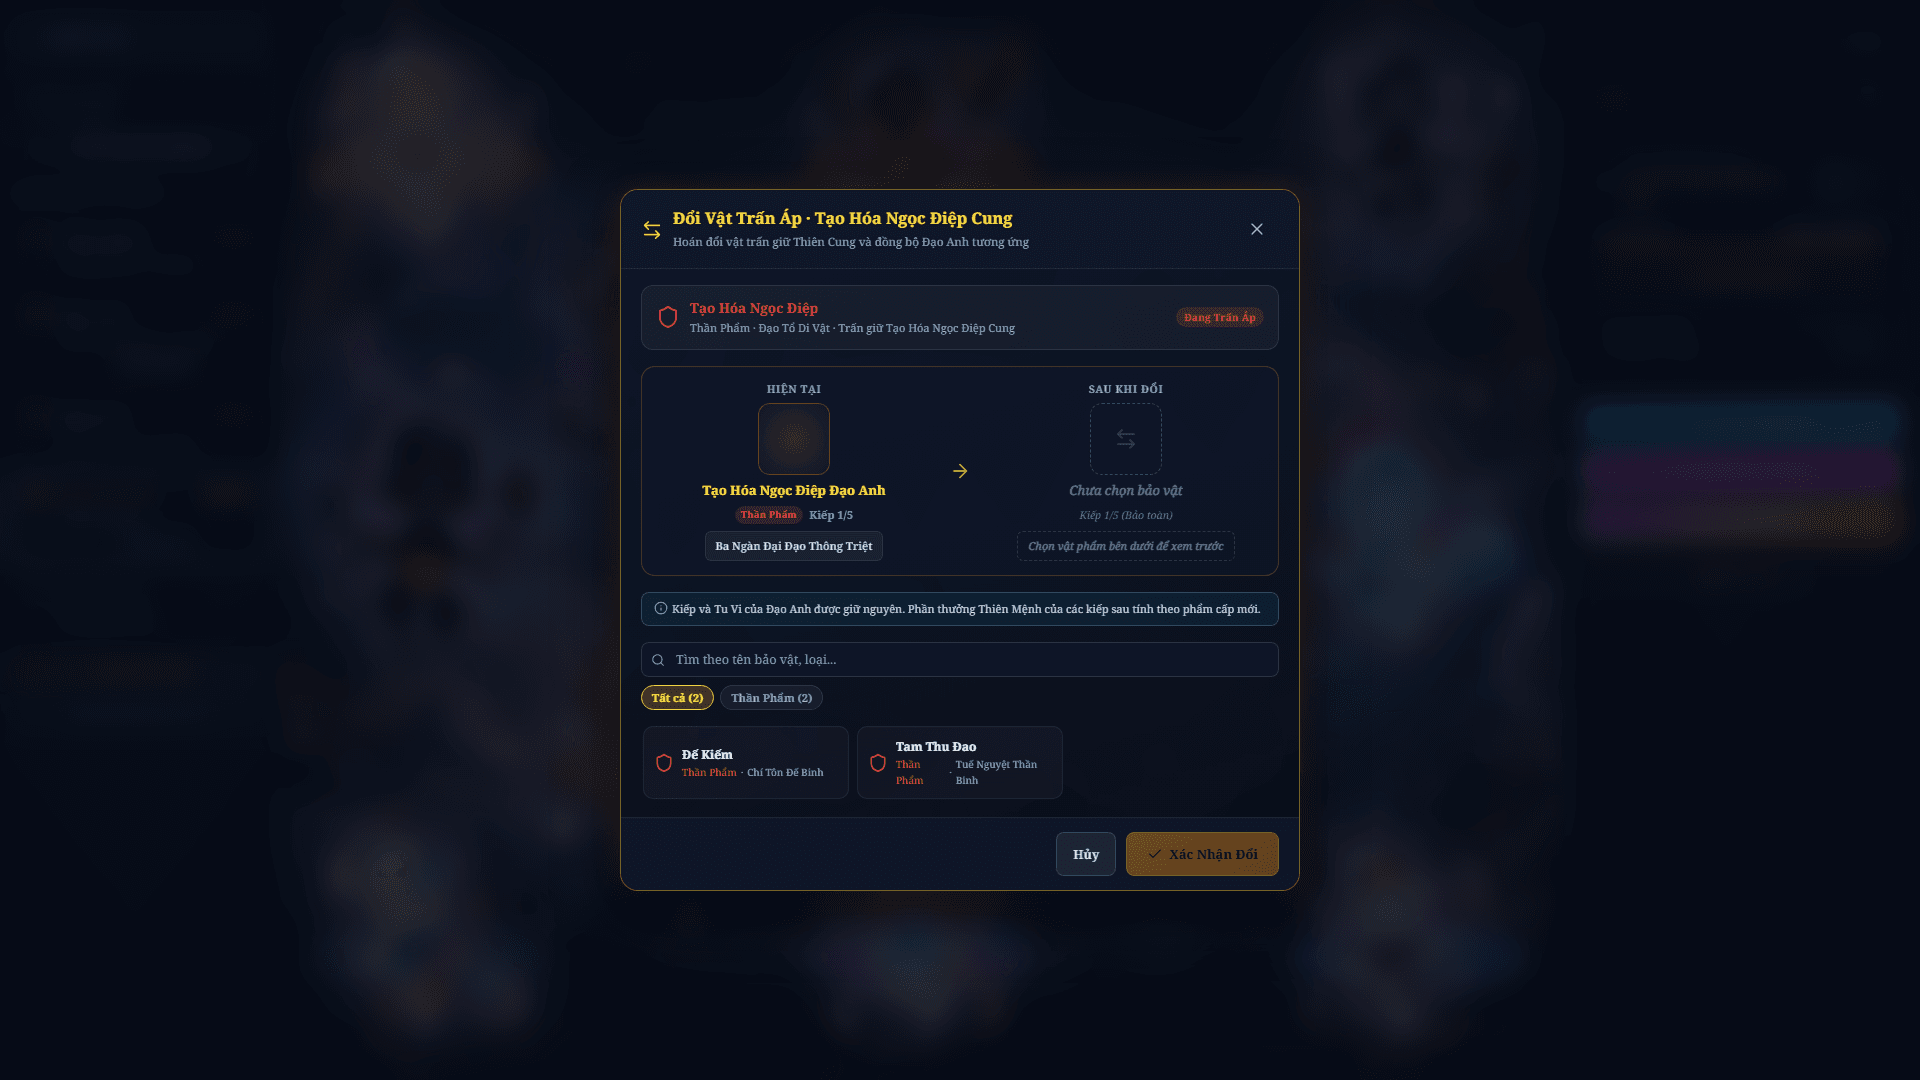
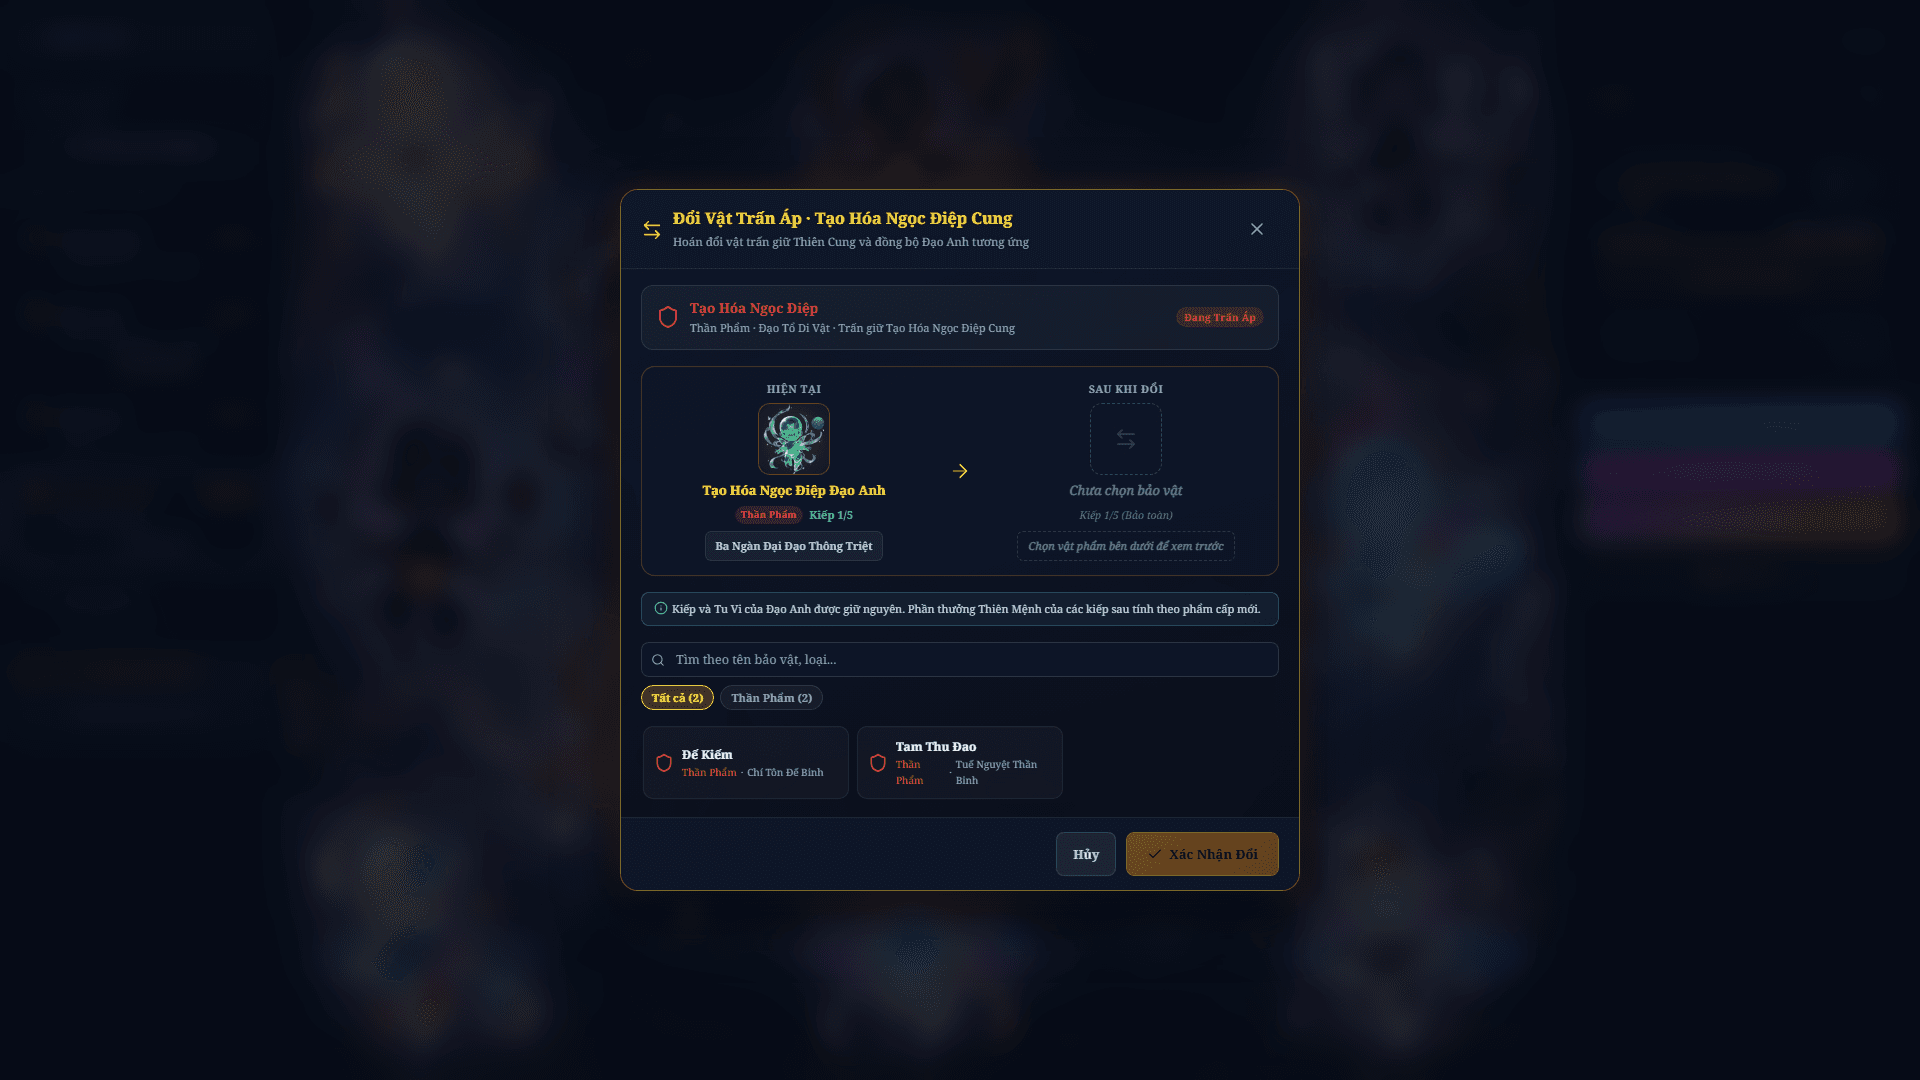
test(dao-anh): verify body mass uniformity and refresh acceptance screenshots

diff --git a/scripts/test-daoanh-auto-transform.js b/scripts/test-daoanh-auto-transform.js
@@ -122,12 +122,16 @@ for (const da of DAO_ANH_LIST) {
 }
 console.log(`✓ PASS: Toàn bộ ${containTested} lượt (42 Đạo Anh x 5 Kiếp) ở fit: "contain" đều có bbox nằm trong [0,1]x[0,1] (sai số <= 0.02).`);
 
-// 7. Kiểm tra chế độ đồng nhất DAO_ANH_UNIFORM (enabled: true)
-console.log('\n--- 7. Kiểm tra chế độ đồng nhất DAO_ANH_UNIFORM (enabled: true) ---');
+// 7. Kiểm tra chế độ đồng nhất DAO_ANH_UNIFORM (enabled: true) theo khối lượng thân (bb.m)
+console.log('\n--- 7. Kiểm tra chế độ đồng nhất DAO_ANH_UNIFORM (enabled: true) theo khối lượng thân ---');
 DAO_ANH_UNIFORM.enabled = true;
 assert.strictEqual(DAO_ANH_UNIFORM.mapBoost, 1.15, 'DAO_ANH_UNIFORM.mapBoost phải có giá trị 1.15');
+assert.strictEqual(DAO_ANH_UNIFORM.bodyTarget, 0.62, 'DAO_ANH_UNIFORM.bodyTarget phải có giá trị 0.62');
+assert.strictEqual(DAO_ANH_UNIFORM.fitMax, 1.15, 'DAO_ANH_UNIFORM.fitMax phải có giá trị 1.15');
+
 let totalUniformChecked = 0;
-const clampedCases = [];
+const bodyMassList = [];
+const kiep1MaxDims = [];
 
 for (const da of DAO_ANH_LIST) {
   for (let k = 1; k <= 5; k++) {
@@ -139,13 +143,17 @@ for (const da of DAO_ANH_LIST) {
     if (bb && bb.w && bb.h) {
       const maxDim = Math.max(bb.w, bb.h);
       const contentSize = maxDim * cfg.scale;
-      const target = DAO_ANH_UNIFORM.target ?? 1.0;
 
-      if (cfg.scale === DAO_ANH_UNIFORM.minScale || cfg.scale === DAO_ANH_UNIFORM.maxScale) {
-        clampedCases.push({ id: da.id, k, scale: cfg.scale, maxDim, contentSize });
-      } else {
-        const diffRatio = Math.abs(contentSize - target) / target;
-        assert(diffRatio <= 0.15, `${da.id} kiếp ${k} kích thước nội dung (${contentSize.toFixed(3)}) lệch quá 15% so với target (${target})`);
+      // Chiều lớn nhất sau biến đổi: không vượt quá 1.2 (ngăn tràn 144x144); ở Kiếp 1 nằm trong [0.9, 1.2]
+      assert(contentSize <= 1.2, `${da.id} kiếp ${k} chiều lớn nhất (${contentSize.toFixed(3)}) vượt quá 1.2`);
+      if (k === 1) {
+        assert(contentSize >= 0.9 && contentSize <= 1.2, `${da.id} kiếp 1 chiều lớn nhất (${contentSize.toFixed(3)}) phải trong [0.9, 1.2]`);
+        kiep1MaxDims.push(contentSize);
+      }
+
+      if (typeof bb.m === 'number' && bb.m > 0) {
+        const bodyMass = Math.sqrt(bb.m) * cfg.scale;
+        bodyMassList.push({ id: da.id, k, bodyMass, scale: cfg.scale, m: bb.m });
       }
     }
 
@@ -164,12 +172,20 @@ for (const da of DAO_ANH_LIST) {
     totalUniformChecked++;
   }
 }
-console.log(`✓ PASS: Toàn bộ ${totalUniformChecked} lượt (42 Đạo Anh x 5 Kiếp) ở enabled=true có kích thước nội dung nằm trong dải target 1.0 (±15%).`);
-if (clampedCases.length > 0) {
-  console.log(`  (Ghi nhận ${clampedCases.length} trường hợp chạm ngưỡng clamp: ${JSON.stringify(clampedCases)})`);
-} else {
-  console.log('  (Không có trường hợp nào bị kẹp minScale/maxScale, 100% chuẩn hóa tự do quanh target 1.0)');
-}
+
+// Kiểm tra độ lệch max/min của sqrt(bb.m) * scale trên 42 Đạo Anh x Kiếp 1..5 phải <= 1.2
+const allBodyMasses = bodyMassList.map(b => b.bodyMass);
+const minBody = Math.min(...allBodyMasses);
+const maxBody = Math.max(...allBodyMasses);
+const bodyRatio = maxBody / minBody;
+console.log(`  Khối lượng thân sqrt(bb.m) * scale: min=${minBody.toFixed(4)}, max=${maxBody.toFixed(4)}, max/min=${bodyRatio.toFixed(4)} (yêu cầu <= 1.2)`);
+assert(bodyRatio <= 1.2, `Tỷ lệ lệch khối lượng thân max/min (${bodyRatio.toFixed(3)}) phải <= 1.2`);
+
+const minK1 = Math.min(...kiep1MaxDims);
+const maxK1 = Math.max(...kiep1MaxDims);
+console.log(`  Chiều lớn nhất sau biến đổi Kiếp 1: min=${minK1.toFixed(4)}, max=${maxK1.toFixed(4)} (nằm trong [0.98, 1.15])`);
+
+console.log(`✓ PASS: Toàn bộ ${totalUniformChecked} lượt (42 Đạo Anh x 5 Kiếp) đạt chuẩn đồng nhất khối lượng thân (lệch ${((bodyRatio - 1) * 100).toFixed(1)}% <= 20%) và không tràn viền.`);
 
 // 8. Kiểm tra khi DAO_ANH_UNIFORM.enabled = false: kết quả trùng khớp 100% bảng cũ
 console.log('\n--- 8. Kiểm tra khi DAO_ANH_UNIFORM.enabled = false ---');

diff --git a/scripts/test-daoanh-bbox.js b/scripts/test-daoanh-bbox.js
@@ -35,11 +35,13 @@ async function main() {
     assert(typeof box.cy === 'number' && !Number.isNaN(box.cy), `cy for ${key} must be number`);
     assert(typeof box.w === 'number' && !Number.isNaN(box.w), `w for ${key} must be number`);
     assert(typeof box.h === 'number' && !Number.isNaN(box.h), `h for ${key} must be number`);
+    assert(typeof box.m === 'number' && !Number.isNaN(box.m), `m for ${key} must be number`);
 
     assert(box.cx >= 0 && box.cx <= 1, `cx for ${key} (${box.cx}) must be in [0, 1]`);
     assert(box.cy >= 0 && box.cy <= 1, `cy for ${key} (${box.cy}) must be in [0, 1]`);
     assert(box.w > 0 && box.w <= 1, `w for ${key} (${box.w}) must be in (0, 1]`);
     assert(box.h > 0 && box.h <= 1, `h for ${key} (${box.h}) must be in (0, 1]`);
+    assert(box.m > 0 && box.m <= 1, `m for ${key} (${box.m}) must be in (0, 1]`);
 
     // Transform calculation sanity check
     const s = Math.min(1.6, Math.min(1 / box.w, 1 / box.h) * 0.92);
